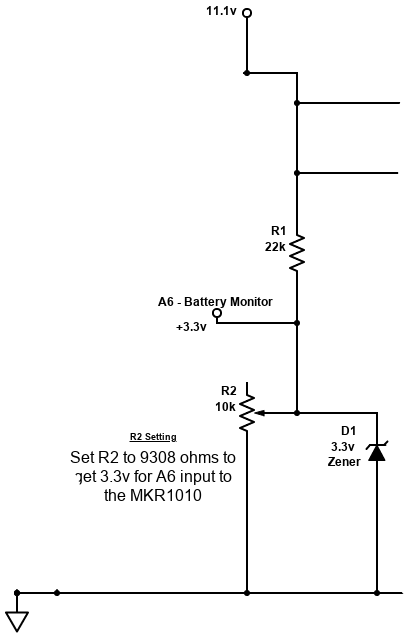
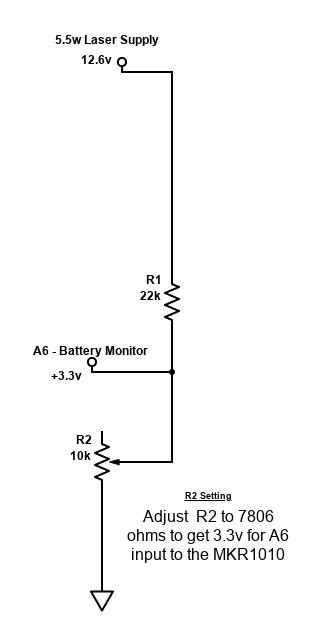
Cleaned up documents

Changed region(s): [[0.0, 0.0, 0.9612, 0.9984], [0.1748, 0.0605, 0.5534, 0.121]]

diff --git a/README.md b/README.md
@@ -1,15 +1,16 @@
 # Arduino-T001-LaserTankPowerSupply
 
 ### Laser Tank Power Supply Tutorial
-This is tutorial 1 for my 5.5w Laser Tank (LT).  It's primary focus is to monitor the 11.1v LiPo Battery.  Normal use of the battery causes it to degrade over time, to prevent further degradation we don't want the battery to discharge to low.  So I set the Low Voltage Cutoff (LVC) to be 10V. 10V is well above the danger zone of 3.0v per cell and allows for some variance of the three cells that make up the battery.  There are several guides to understanding Lipo batteries [Lipo Guide](http://learningrc.com/lipo-battery/) so I won't go into a lot of detail regarding their usage.
+This is tutorial 1 for my 5.5w Laser Tank (LT).  It's primary focus is to monitor the +11.1v LiPo Battery.  The Lipo battery says it is +11.1v however during recharging the actual charge voltage can be above +11.1v (could be as high as +12.6v for my particular battery).
+Normal use of the battery causes it to degrade over time, to prevent further degradation we don't want the battery to discharge to low.  So I set the Low Voltage Cutoff (LVC) to be 10.5v. 10.5v is well above the danger zone of 3.0v per cell and allows for some variance of the three cells that make up the battery.  There are several guides to understanding Lipo batteries [Lipo Guide](http://learningrc.com/lipo-battery/) so I won't go into a lot of detail regarding their usage.
 
-The tutorial shows code using a Software Interrupt, an Interrupt Service Routine (ISR) and Background Processing as part of the battery monitoring.  I will cover these in future tutorials, so I will not explain their operation at time (these will help manage and control other parts to the LT). I will be adding multiple sensors and devices to the LT, so I wanted to ensure various processes are only using CPU time only as needed.
+The tutorial shows code using a Software Interrupt with an  Interrupt Service Routine (ISR), Background Processing and Battery Monitoring, we are only going to detail the Battery Monitoring code.  I will cover the other areas in future tutorials (these will help manage and control other parts to the LT). I will be adding multiple sensors and devices to the LT, so I wanted to ensure various processes including the Battery Monitoring are only using CPU time only as needed.
 
 > #### Power Supply Requirements 
-> - +10vdc to +12vdc for the 5.5w Laser
+> - +10.5vdc to +12vdc for the 5.5w Laser
 > - +9vdc for the left and right Drive Motors
-> - +5vdc for the Arduino(s) and other Control and logic Boards and components
-> - 0 to +3.3vdc for the input to the MKR1010 A6 pin, so we can calculate current and average battery voltage
+> - +5vdc for the Arduino(s) and other Control and logic Boards & Components
+> - 0 to +3.3vdc for the input to the MKR1010 A6 pin, used to calculate current and average battery voltage
 
 ![Power Supply Installed](/Images/Power_Supply_Installed.png)
 
@@ -23,16 +24,16 @@ The voltage monitor section has hardware and software related components.
 
 ![Voltage Mointor](/Images/Voltage_Monitor.png)
 
-The hardware component is composed of a voltage divider circuit using R1 and R2. R2 is a 10K potentiometer that I adjust to get a starting voltage of +3.3v (maximum input for and MKR1010 A6 pin). Due to resistor tolerances you may have to adjust yours ([Making Adjustments](https://www.youtube.com/channel/UClwcP7ByE6Ia9DmKfP0C-UQ)).  D1 is a 3.3v zener diode is used to ensure we do not overload the MKR1010's input. Why do I need D1? The Lipo battery says it is 11.1v however during recharging the actual charge voltage can be above 11.1 (could be as high as 12.6v for my particular battery). If you are willing to monitor the recharging process and stop it at 11.1v or adjust R2 every time to ensure you do not exceed +3.3v D1 is not needed, however that is not practical and poses an unnecessary risk to the MKR1010.
+The hardware component is composed of a voltage divider circuit using R1 and R2. R2 is a 10K potentiometer that I adjust to get a starting voltage of +3.3v (maximum input for and MKR1010 A6 pin). Aligning the A6 input max of +3.3v with the supply voltage of +12.6v allows us to use one of the analog to digital converters on the MKR1010. Due to resistor tolerances you will have to adjust the R2 value ([Making Adjustments](https://www.youtube.com/channel/UClwcP7ByE6Ia9DmKfP0C-UQ)) to achieve proper alignment.
 
 ### Voltage Monitor Software
 
-The voltage monitor software allows the LT to make a reading of the battery voltage ever 3 seconds (driven by the ISR and processed in the background).  An average of the last 10 readings is created and is use as the value to make the LVC decision.  If the LVC is reached a warning message is printer (in this tutorial, the actual LT sends the message to the user via websockets, more on that in a future tutorial) and LowVoltage Led is lit.
+The voltage monitor software takes a reading of the battery voltage ever 3 seconds (driven by the ISR and processed in the background).  An average of the last 10 readings is created and is use as the value to make the LVC decision.  If the LVC is reached a warning message is printed (in this tutorial for demonstration purposes, the working LT sends the message to the user via websockets, more on that in a future tutorial) and the LowVoltage Led is lit.
 
-- Declare the variables we need, these include:
+- Declare the variables we need, they include:
   - The Voltage Monitor pin - output voltage from voltage divider
   - The Low Voltage LED output pin
-  - The Low Voltage Cutoff (LVC)  
+  - The Low Voltage Cutoff (LVC) value
   - Vars for reading, storing and calculating the battery voltage
   - ISR var used to tell the background it's time to do a status check 
 ```sh
@@ -42,13 +43,13 @@ The voltage monitor software allows the LT to make a reading of the battery volt
 #endif
 
 #ifndef LowVoltagePin
-    // D8 - Red LED
-    #define LowVoltagePin  8
+    // D6 - Red LED
+    #define LowVoltagePin  6
 #endif
 
 #ifndef LowVoltageCutoff
     // the value we want keep the system from starting and/or when to shutdown
-    #define LowVoltageCutoff  10
+    #define LowVoltageCutoff  10.5
 #endif
 
 // Battery
@@ -61,18 +62,18 @@ float BatteryAverageFinal = 0;
 // ISR vars
 volatile int ISR_BatteryVoltage = 0;
 ```
-- Function to read and process the battery voltage
-  - Read the Battery Voltage - the input to the VoltageMonitorPin should be in the range of: 0 - +3.3v [ our working range should be : +x.xv (+10v or LVC) and +3.3v (+11.1v or MAX) ].  The analogRead is using the default resolution of 10 bits, therefore the raw_read value should be between 0 and 1023.  Since we know the target supply voltage is 11.1, multiple the raw_read value by (float)11.1 and then divide by 1023 to get BatteryVoltage (the current reading).  Next we add the BatteryVoltage to the BatteryAverageBuild to keep a running total for this 30 second average.
-  - Make the Average - once we get to 10 samples and then divide the BatteryAverageBuild by 10 to get the BatteryAverageFinal for this 30-second period.  The sample is reported, and then checked to see if we are +10v or below and if so report that too.  Finally, if below +10v lite the Low Voltage LED.
+- sendBatteryStatus() - function to read and process the battery voltage
+  - Read the Battery Voltage - We defined our working voltage range to be +10.5v (LVC) to +12.6v (MAX). Using our voltage divider circuit the actual input to the VoltageMonitorPin will be in the range of: (approximately +x.xv) to +3.3v.  The analogRead() function is using a resolution of 12 bits, therefore the raw_read value could have a theoretical range of 0 t0 4095 (we will never get to close to 0 because of our LVC limit).  Since we know the MAX supply voltage is +12.6v, multiple the raw_read value by (float)12.6 and then divide by 4095 to get BatteryVoltage (the current reading).  Next we add the BatteryVoltage to the BatteryAverageBuild to keep a running total for this 30 second average.
+  - Make the Average - once we have 10 samples we divide the BatteryAverageBuild by 10 to get the BatteryAverageFinal value for this 30-second period. The sample is reported, then checked to see if we are at or below the LVC if so report that and lite the Low Voltage LED.
 ```sh
 void sendBatteryStatus()
 { 
-    // read the Battery Voltage
+    // Read the Battery Voltage
     raw_read = analogRead(VoltageMonitorPin);
-    BatteryVoltage = (((float)raw_read) * 11.1 / 1023);
+    BatteryVoltage = (((float)raw_read) * 12.6 / 4095);
     BatteryAverageBuild += BatteryVoltage;
 
-    // make the Average
+    // Make the Average
     // average is the last 10 samples
     BatteryAverageCount++;
     if(BatteryAverageCount == 10) {
@@ -94,10 +95,10 @@ void sendBatteryStatus()
     }
 }
 ```
-- ISR, tells the background to take a sample of the battery voltage every 3 seconds
-  - The software interrupt is configured to call the ISR once every 10 micro-seconds (10 * 300000 = 3,000,000 or 3 seconds).  Once we reach 3 seconds the ISR is done until the background takes the sample and resets the ISR counter, so it can start over.  Why so fast, I'll explain in a future tutorial for the 5.5w Laser.  I like to share really cool/useful websites so here is one that does conversions for you [Unit Juggler](https://www.unitjuggler.com/convert-frequency-from-%C2%B5s(p)-to-s(p).html?val=3000000).
+- Interrupt Service Routine, tells the background to take a sample of the battery voltage every 3 seconds
+  - The software interrupt is configured to call the ISR once every 10 micro-seconds (10 * 300000 = 3,000,000 micro-seconds or 3 seconds).  Once we reach 3 seconds the ISR is done until the background takes the sample and resets the ISR counter, so it can start over.  Why a 10 micro second interrupt? Why not a 1-second interrupt and skip all the counting? I'll explain that in a future tutorial for the 5.5w Laser. Hack Shack Tip (HST) I like to share really cool/useful websites so here is one that does conversions for you [Unit Juggler](https://www.unitjuggler.com/convert-frequency-from-%C2%B5s(p)-to-s(p).html?val=3000000).
 ```sh
-// interrupt service routine
+// Interrupt Service Routine
 void TC4_Handler()
 {
   if (TC4->COUNT16.INTFLAG.bit.OVF && TC4->COUNT16.INTENSET.bit.OVF)
@@ -110,9 +111,10 @@ void TC4_Handler()
   }
 }
 ```
-- setup, required Arduino code block
-  - Setup the Low Voltage Pin - configure the Low Voltage warning LED
-  - Get the Initial Battery Status - take a sample of the start up battery voltage, if it is too low lite the warning LED and wait.  If it is good ensure the warning LED is off and set the initial BatteryAverageFinal to be equal to the current BatteryVoltage, so we have a value until a full 30-second sample is available
+- setup(), required Arduino code block
+  - Set up the Low Voltage Pin - configure the Low Voltage warning LED
+  - Get the Initial Battery Status - since we are dealing with a small voltage range (+10.5v to +12.6v) I increased the analogReadResolution() to 12 bits from the default of 10 bits (this will increase the accuracy of the samples), next take a sample of the start up battery voltage, if it is too low lite the Low Voltage warning LED and wait.  If it is good (above the LVC) ensure the Low Voltage warning LED is off and set the initial BatteryAverageFinal to be equal to the current BatteryVoltage, so we have a value until a full 30-second sample is available.
+  - delay 10 seconds - add a delay, so we don't flood console with error messages
 ```sh
 void setup()
 {
@@ -122,6 +124,7 @@ void setup()
 
     // Get the Initial Battery Status so we can preset the battery average until we have one (every 30 seconds)
     // also check and make sure we are good to go else set the Low Voltage LED and wait
+    analogReadResolution(12);
     while(BatteryAverageFinal <= LowVoltageCutoff) {
       sendBatteryStatus();
 
@@ -133,11 +136,14 @@ void setup()
           BatteryAverageFinal = BatteryVoltage;
           digitalWrite(LowVoltagePin, LOW);         
       }
+      
+      // delay 10 seconds, remember we have to call sendBatteryStatus() 10 times to get the average so 1000 msec * 10 = 10 seconds
+      delay(1000);
     }  
 }
 ```
-- loop, required Arduino code block
-  - Background Process 1 - The code segment waits for the ISR_BatteryVoltage to reach 300000 (3 seconds), when it does it calls  the function to check the battery
+- loop(), required Arduino code block
+  - Background Process 1 - Wait for the ISR_BatteryVoltage to reach 300000 (3 seconds), when it does it we reset ISR_BatteryVoltage counter, so the ISR will start counting again, then call the function to check the battery status
 ```sh
 void loop()
 {
@@ -151,3 +157,8 @@ void loop()
   }
 }
 ```
+
+## Next Up
+> - Tutorials on Software Interrupts, Background Processing, Board to Board communication, Pulse Simulation, Website using Base64 to save code space and other Fun Stuff
+
+Follow me on [YouTube](https://www.youtube.com/channel/UClwcP7ByE6Ia9DmKfP0C-UQ) to catch the "Next Up" stuff and thanks for Hanging Out at the Shack!
